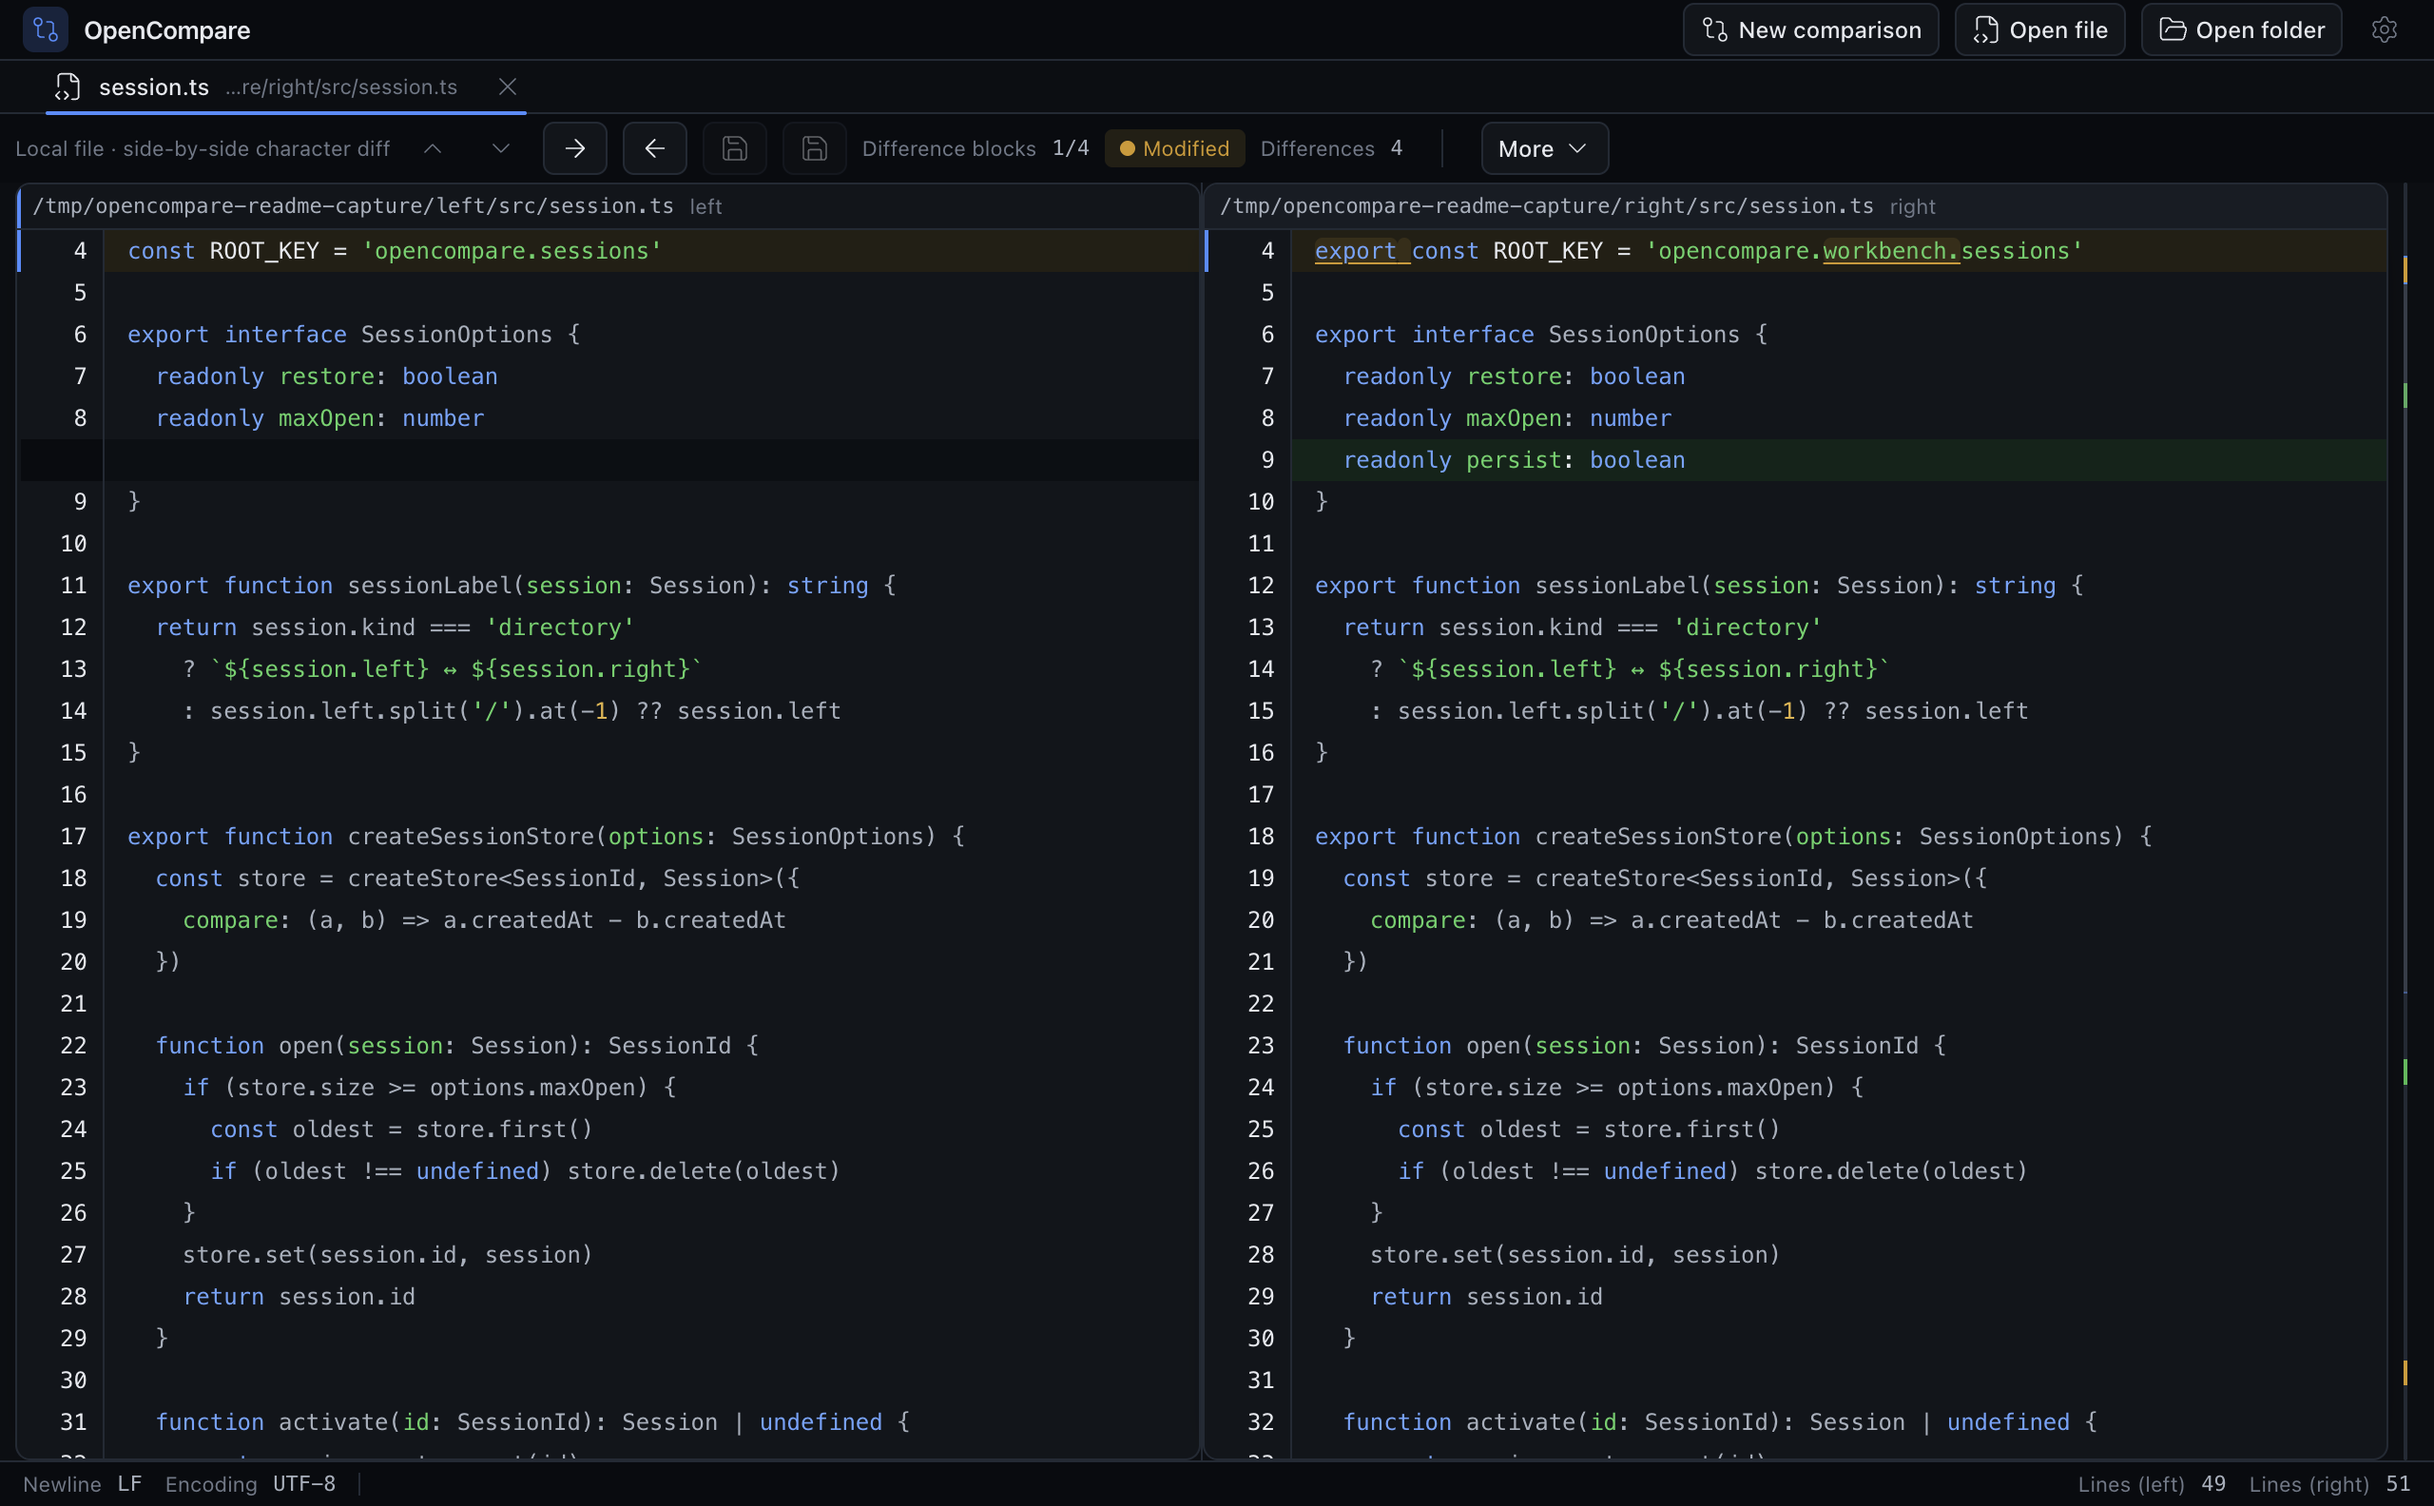
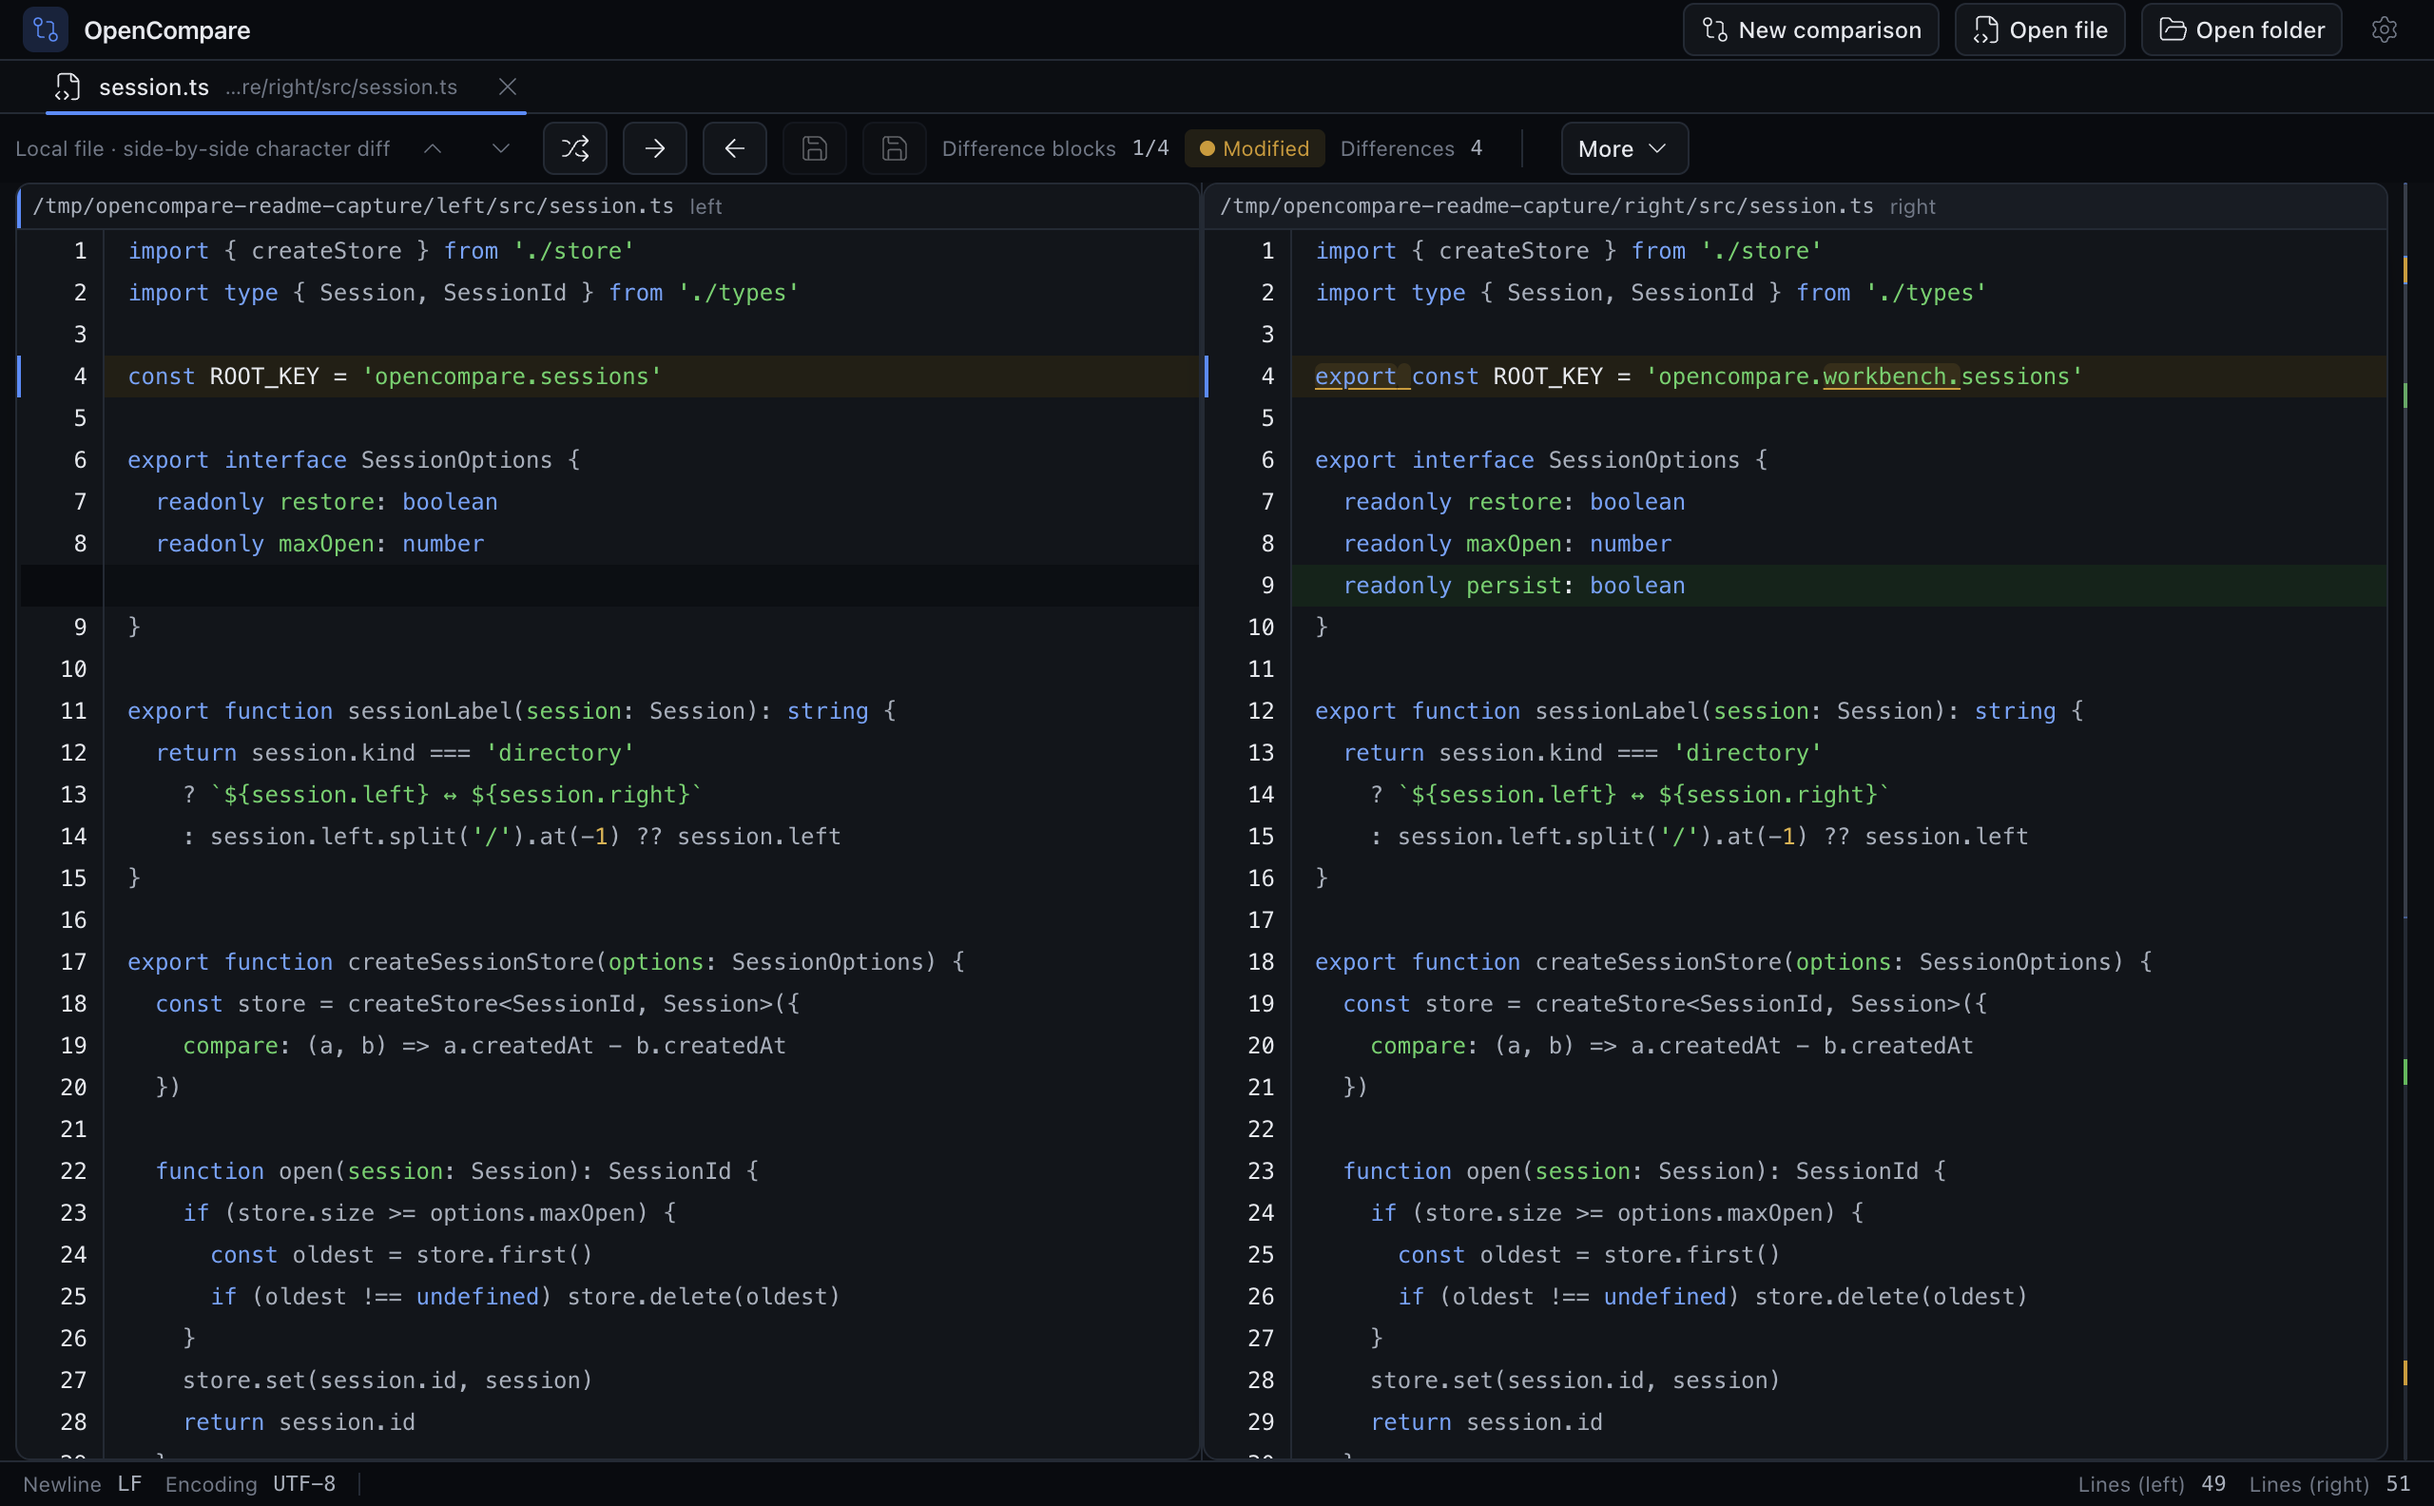
chore(screenshots): re-capture file-diff shots with the visible swap entry
Re-pins docs/screenshots.md to dd3296a and records the new file-diff bytes /
sha256; the two workbench shots are unchanged.

diff --git a/docs/screenshots.md b/docs/screenshots.md
@@ -7,7 +7,7 @@ old image or composed artwork is used.
 
 ## Captured commit
 
-- commit: `3131f4f6f681d383a1ffd97c4c92b19c5740af28`
+- commit: `dd3296a682ed80c064369586707f05c5936af1f0`
 - all four images were captured from a `pnpm build` made on a clean working tree
   at exactly that commit (`HEAD` equalled this commit and `git status
   --porcelain` reported nothing under `src/**` before the build), then
@@ -42,7 +42,7 @@ Used only by `README.md`.
 | Image | Session | Bytes | sha256 |
 | --- | --- | --- | --- |
[3 lines of base64/hex data omitted]
 
 Visual review of both PNGs: the workbench chrome, tabs, filter segments, tree
 status labels, tooltips and the status bar are entirely English; the type scale
@@ -57,7 +57,7 @@ removed / modified badges and inline diff highlights are distinguishable.
 | Image | Session | Bytes | sha256 |
 | --- | --- | --- | --- |
[3 lines of base64/hex data omitted]
 
 逐张视觉复核：工作台外壳、标签页、筛选段、目录行状态文案、提示与底部状态栏
 全为中文；字号与既有基线一致；右侧 `data-diff-ruler` 指示条与底部状态栏完整
